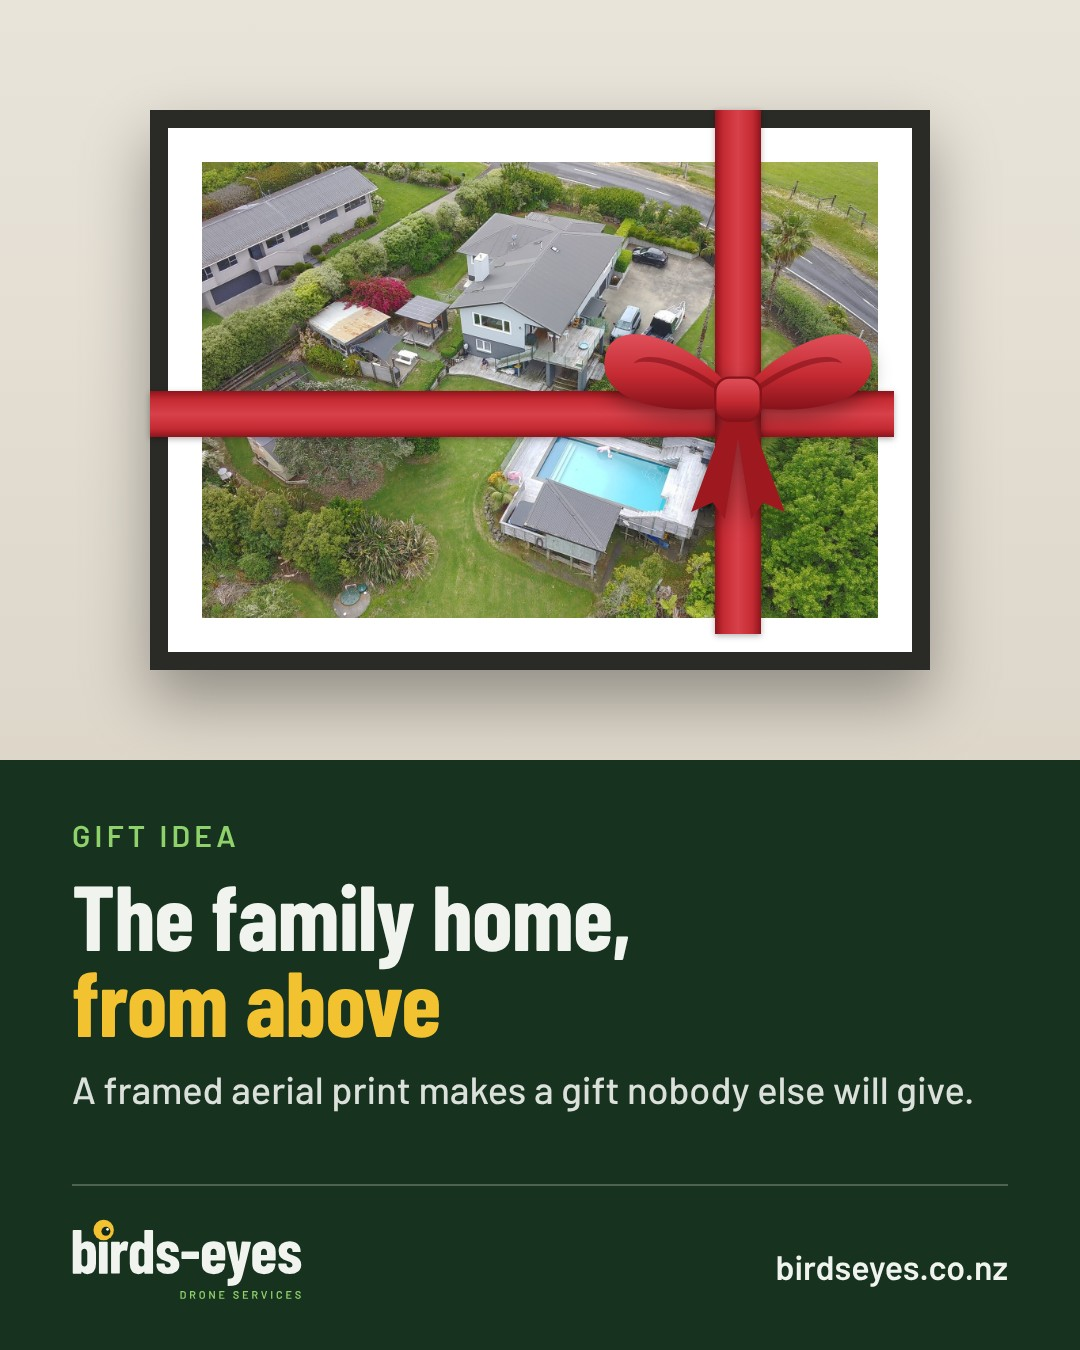
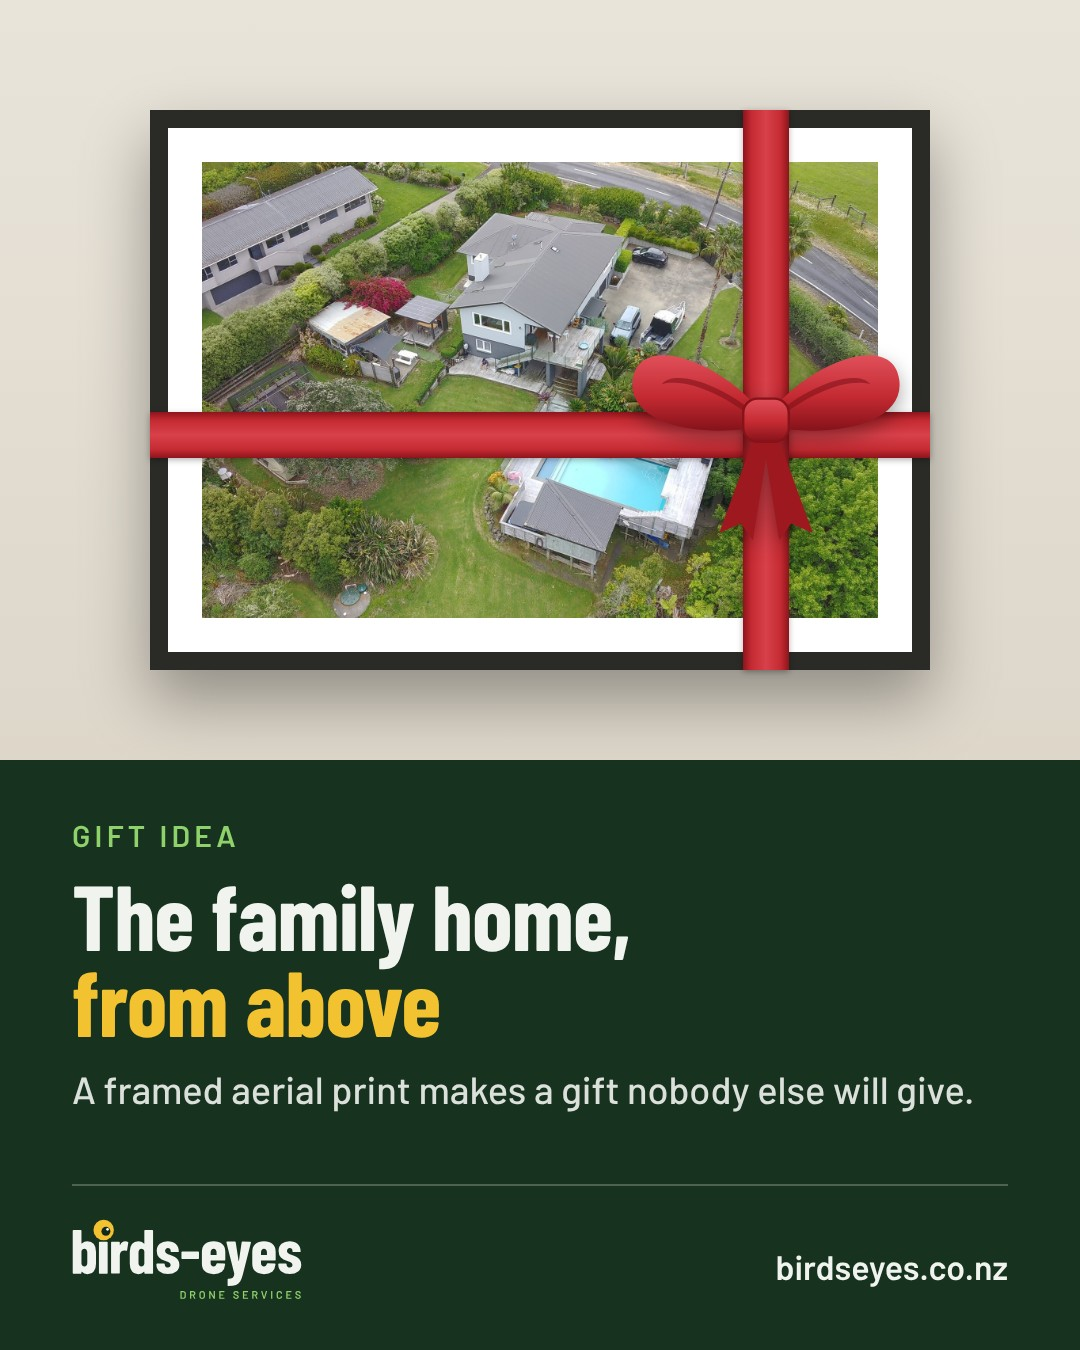
Make the Christmas ribbon reach the frame edges
Claude-Session: https://claude.ai/code/session_01HgtfRQ1YLVPGwD9ZEWdpTe

Changed region(s): [[0.1222, 0.0622, 0.8861, 0.4978]]

diff --git a/brand/generator/template.html b/brand/generator/template.html
@@ -43,6 +43,9 @@ body { background:#777; font-family:B; }
 .frame { position:absolute; background:#fff; padding:34px; box-shadow:0 30px 60px rgba(0,0,0,.35); }
 .frame div { width:100%; height:100%; background-size:cover; background-position:center; }
 .ribbon { position:absolute; inset:-18px; pointer-events:none; }
+.frame .ribbon { width:auto; height:auto; }
+.frame .ribbon .v { height:auto; }
+.frame .ribbon .hz { width:auto; }
 .ribbon .v, .ribbon .hz { position:absolute; background:linear-gradient(90deg,#8E141C 0,#C42A32 18%,#D8414A 50%,#C42A32 82%,#8E141C 100%); box-shadow:0 2px 6px rgba(0,0,0,.3); }
 .ribbon .v { top:0; bottom:0; width:46px; left:calc(79% - 23px); }
 .ribbon .hz { left:0; right:0; height:46px; top:calc(58% - 23px); background:linear-gradient(180deg,#8E141C 0,#C42A32 18%,#D8414A 50%,#C42A32 82%,#8E141C 100%); }
